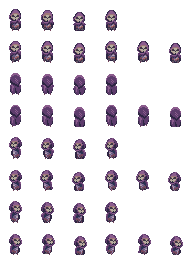
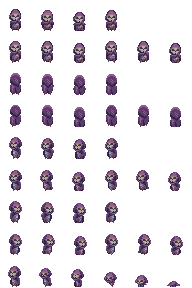
death for skeleton

diff --git a/public/js/scenes/scene.preloader.js b/public/js/scenes/scene.preloader.js
@@ -131,7 +131,7 @@ var sceneConfigPreloader = {
         this.anims.create({
             key: 'archer_dead',
             frames: this.anims.generateFrameNumbers('archer', { start: 48, end: 53}),
-            frameRate: 5,
+            frameRate: 8,
             repeat: 0
         });
         this.anims.create({
@@ -181,6 +181,12 @@ var sceneConfigPreloader = {
             frames: this.anims.generateFrameNumbers('skeleton', { start: 42, end: 47}),
             frameRate: 8,
             repeat: -1
+        });
+        this.anims.create({
+            key: 'skeleton_dead',
+            frames: this.anims.generateFrameNumbers('skeleton', { start: 48, end: 53}),
+            frameRate: 8,
+            repeat: 0
         });
         this.anims.create({
             key: 'bow_up',

diff --git a/public/js/monsters.js b/public/js/monsters.js
@@ -63,9 +63,9 @@ class Monster extends Phaser.Physics.Arcade.Sprite
         if (this.hpText) {
             this.hpText.destroy();
         }
-        this.setTint(0x333333);
+        this.setTint(0xAAAAAA);
         // avoid late changes of damage effect
-        this.scene.time.delayedCall(110, () => this.setTint(0x333333), [], this);
+        this.scene.time.delayedCall(110, () => this.setTint(0xAAAAAA), [], this);
         this.setDepth(DEPTH_DEAD);
         this.disableBody();
 
